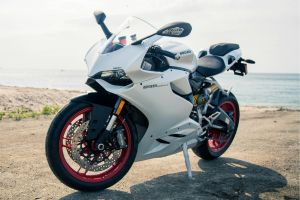
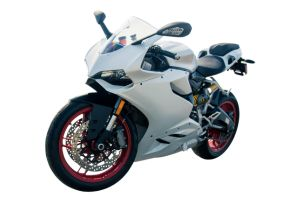
update: change background rental units

diff --git a/final-website/scripts/weather-cozumel.js b/final-website/scripts/weather-cozumel.js
@@ -1,5 +1,5 @@
 // Initialize display elements
-const currentDate = document.querySelector('#current-date');
+const bannerCurrentDate = document.querySelector('#banner-current-date');
 const maxTemp = document.querySelector('#max-temp');
 const currentConditions = document.querySelector('#current-conditions');
 const currentTemp = document.querySelector('#current-temperature');
@@ -12,7 +12,7 @@ const mainWeather = document.querySelectorAll('.main-weather');
 const weatherDesc = document.querySelectorAll('.weather-desc');
 const weatherIcons = document.querySelectorAll('.weather-icon')
 const banner = document.querySelector('.banner');
-const closeBtn = document.querySelector('#closeable-message');
+const bannerCloseBtn = document.querySelector('#closeable-message');
 
 // OpenWeatherMap API key
 const apiKey = "e122671826e7ca9f9baca798d6779d26"; 
@@ -23,11 +23,13 @@ async function updateWeather() {
 
     try {
         // Fetch data from
+        console.log('Fetching weather data from:', url); // Log the API endpoint
         const response = await fetch(url);
         // testing only
         console.log(response);
 
         if (!response.ok) {
+            console.error(`API fetch error: ${response.status} ${response.statusText}`); // Debugging
             throw new Error(`Error: ${response.status} ${response.statusText}`);
         }
 
@@ -35,51 +37,68 @@ async function updateWeather() {
         const data = await response.json();
 
         // Call the displayResults function
+        console.log('API response received:', data); // Log the full data
         displayResults(data);
 
     } catch(error) {
         // Call the function to display the error message
+        console.error('Error fetching weather data:', error); // Debugging
         displayError("Unable to fetch weather data");
     }
 }
 
 // Display weather results
 function displayResults(data) {
+    console.log('Weather data fetched:', data); // Debugging
+
+
     // Banner update
     const today = new Date();
-    currentDate.textContent = today.toLocaleDateString('en-US', {month: 'short', day: 'numeric', year: 'numeric'});
-    maxTemp.textContent = `${data.list[0].main.temp_max.toFixed(1)}°F`;
+    console.log('Updating banner with date:', today); // Debugging
+    bannerCurrentDate.textContent = today.toLocaleDateString('en-US', {month: 'short', day: 'numeric', year: 'numeric'});
+    
+    console.log('Updating max temperature:', data.list[0].main.temp_max); // Debugging
+    maxTemp.textContent = `${data.list[0].main.temp_max.toFixed(1)} °F`;
 
     // Current weather card update
     currentConditions.textContent = data.list[0].weather[0].description;
-    currentTemp.textContent = `${data.list[0].main.temp.toFixed(1)}°F`;
+    currentTemp.textContent = `${data.list[0].main.temp.toFixed(1)} °F`;
     currentHum.textContent = `${data.list[0].main.humidity}%`;
-    feelsLike.textContent = `${data.list[0].main.feels_like.toFixed(1)}°F`;
+    feelsLike.textContent = `${data.list[0].main.feels_like.toFixed(1)} °F`;
 
     // Forecast card update
     const forecastItems = data.list.filter(item => item.dt_txt.includes('15:00:00')).slice(0, 3);
+    console.log('Forecast items:', forecastItems); // Debugging
+
     forecastItems.forEach((item, index) => {
         dateDisplays[index].textContent = new Date(item.dt_txt).toLocaleDateString('en-US', { month: 'short', day: 'numeric' });
-        mainWeather [index].textContent = item.weather[0].main;
+        mainWeather[index].textContent = item.weather[0].main;
         weatherDesc[index].textContent = item.weather[0].description;
         weatherIcons[index].src = `https://openweathermap.org/img/wn/${item.weather[0].icon}@2x.png`;
         weatherIcons[index].alt = item.weather[0].description;
-        tempDisplays[index].textContent = `${item.main.temp.toFixed(1)}°F`;
+        tempDisplays[index].textContent = `${item.main.temp.toFixed(1)} °F`;
     });
 }
 
 // Function to display an error message
 function displayError(message) {
-    // Set the error message text
-    errorMessage.textContent = message;
-
-    // Log the error for debugging purposes
-    console.error(message);
+    if (errorMessage) {
+        errorMessage.textContent = message;
+        console.error(message); // Debugging
+    } else {
+        console.error('Error message element not found');
+    }
 }
 
 // Function to handle the banner functionality
-closeBtn.addEventListener('click', () => {
-    banner.style.display = 'none'; // Hide the banner
+bannerCloseBtn.addEventListener('click', () => {
+    console.log('Close button clicked');
+    if (banner) {
+        banner.style.display = 'none'; // Hide the banner
+        console.log('Banner hidden'); // Debugging
+    } else {
+        console.error('Banner element not found');
+    }
 });
 
 // Call the apiFetch function to fetch and update weather data

diff --git a/final-website/styles/base.css b/final-website/styles/base.css
@@ -54,7 +54,6 @@ header {
     padding: 2% 2%;
     background-color: var(--site-color-01);
     color: var(--site-color-06);
-    /* width: 9%; */
 }
 
 .logo  {
@@ -94,7 +93,6 @@ header {
     width: 30px;
     padding: 5px 0;
     cursor: pointer;
-    /* margin-right: 2%; */
 }
 
 #menu-btn span {
@@ -197,17 +195,9 @@ header {
     font-size: 1rem;
 }
 
-/* .close-banner {
-    cursor: pointer;
-    font-weight: bold;
-    font-size: 1.4rem;
-    margin-left: 10px;
-} */
-
 #closeable-message {
     border-radius: .25rem;
     cursor: pointer;
-    font-size: 1.1rem;
     margin-top: 1rem;
     padding: 2%;
 }
@@ -235,16 +225,17 @@ header {
 
 .company-highlight-container button {
     padding: 2%;
+    border: none;
     border-radius: .25rem;
-    background: var(--site-color-05);
-    color: var(--site-color-06);
+    background: var(--site-color-03);
+    color: var(--site-color-01);
     margin: auto;
     transition: all ease-in-out 0.2s;
 }
 
 .company-highlight-container button:hover {
-    color: var(--site-color-03);
-    background: var(--site-color-01);
+    color: var(--site-color-01);
+    background: var(--site-color-03);
 
 }
 
@@ -252,6 +243,21 @@ header {
     width: 300px;
     height: auto;
     margin: 1rem 0;
+}
+
+/* -----Banner-2 Style---- */
+.banner-2 {
+    display: flex;
+    flex-direction: column;
+    align-items: center;
+    justify-content: center;
+    background: var(--site-color-03);
+    color: var(--site-color-02);
+    padding: 1.5rem;
+}
+
+.banner-2 h3 {
+    line-height: 1.5rem;
 }
 
 /* -----Rentals Card--- */
@@ -343,7 +349,6 @@ header {
     height: 200px; 
 }
 
-
 /* -----Current Weather Card---- */
 .current-weather-card {
     display: grid;
@@ -364,10 +369,13 @@ header {
 }
 
 .current-weather-card p {
-    font-size: .7rem;
+    font-size: .8rem;
     margin: .25rem;
 }
 
+#current-conditions {
+    text-transform: capitalize;
+}
 
 /* -----Forecast Weather Card---- */
 .forecast-card {
@@ -379,17 +387,37 @@ header {
 
 .forecast-card h3 {
     padding: 1.5rem;
-    
 }
 
 .forecast-table {
     display: grid;
-    grid-template-columns: repeat(3, 90px);
+    grid-template-columns: repeat(3, 100px);
     justify-items: center;
     align-items: center;
-    gap: 1.5rem;
+    gap: .5rem;
     margin: 0 auto 2.5rem;
     width: max-content;
+    border-radius: .25rem;
+    background: linear-gradient(180deg, hsl(210, 100%, 75%), hsl(40, 100%, 75%));
+    padding: .5rem;
+}
+
+.forecast-item {
+    display: flex; 
+    flex-direction: column; 
+    align-items: center; 
+    text-align: center;
+    row-gap: .2rem; 
+  }
+
+.weather-desc {
+    text-transform: capitalize;
+    font-size: .8rem;
+    font-style: italic;
+}
+
+.temp-display {
+    font-weight: 700;
 }
 
 /* -----location Card---- */

diff --git a/final-website/index.html b/final-website/index.html
@@ -22,7 +22,7 @@
     <!--External scripts-->
     <script src="scripts/date-copyright.js" defer></script>
     <script src="scripts/hamburger-menu.js" defer></script>
-    <script src="scripts/visit-date.js" defer></script>
+    <script src="scripts/visit-date-scoots.js" defer></script>
     <script src="scripts/weather-cozumel.js" defer></script>
     <!--Embed Google Fonts-->
     <link rel="preconnect" href="https://fonts.googleapis.com">
@@ -76,7 +76,7 @@
 
         <section class="banner">
             <h3><span id="latest-visit"></span></h3>
-            <p>Expect a high of <span id="max-temp"></span> in Cozumel, Mexico, on <span id="current-date"></span>.</p>
+            <p>Expect a high of <span id="max-temp"></span> in Cozumel, Mexico, on <span id="banner-current-date"></span>.</p>
             <button id="closeable-message">Close Message</button>
         </section>
 
@@ -87,6 +87,11 @@
             </div>
             <button>Reserve Now</button>
             <img src="images/get-your-ride.webp" alt="Man riding motorcycle by the ocean" width="300" height="294" loading="lazy">
+        </section>
+
+        <section class="banner-2">
+            <h3>EXPLORE. DISCOVER. EXPERIENCE</h3>
+            <p>Venture the outdoors in our rentals!</p>
         </section>
 
         <section class="rentals-card">
